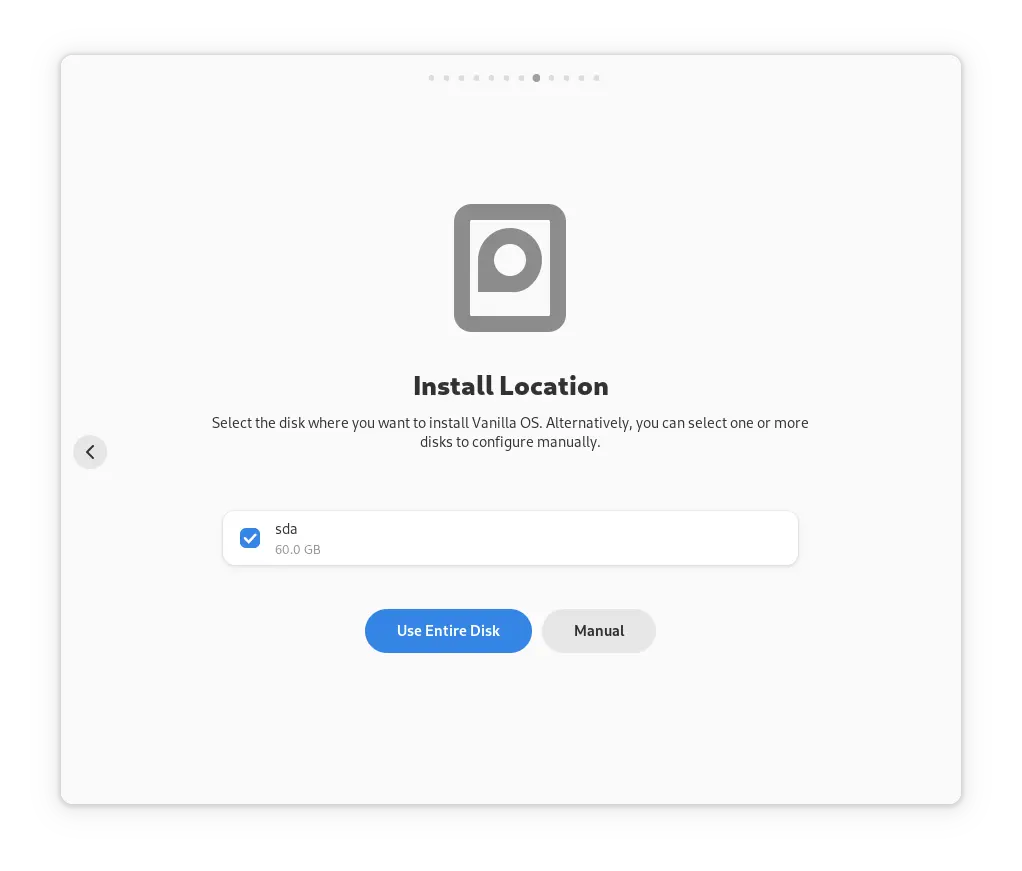
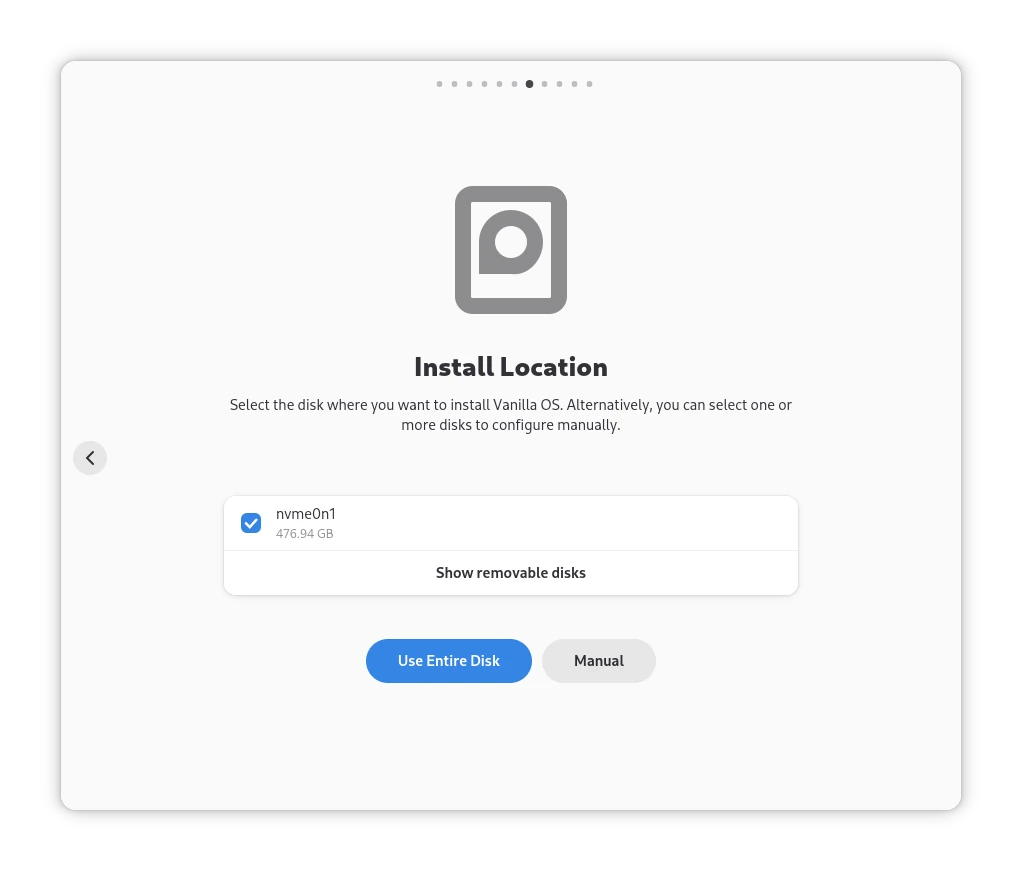
docs: update installation guide

diff --git a/articles/en/installation.md b/articles/en/installation.md
@@ -7,6 +7,7 @@ Authors:
     - GabsEdits
     - kra-mo
     - kbdharun
+    - NN708
 ---
 
 ## Preparation
@@ -14,11 +15,12 @@ Authors:
 ### Requirements
 
 - A flash drive with at least **4GB** of capacity.
-- A 64 bit (amd64)/[x64] processor.
-- A drive with at least **50GB** of storage space (required for [ABRoot](https://documentation.vanillaos.org/docs/ABRoot/) A/B partitions).
+- A 64-bit Intel, AMD (x86_64), or ARM (AArch64) processor.
+- A disk with at least **50GB** of storage space (required for ABRoot A/B partitions).
 - At least **4GB** of **RAM** (**8GB recommended**).
 - 30 minutes to an hour of your time.
-- Good to have **Secure Boot enabled** (if your device isn't with Nvidia graphics).
+
+> **Note**: If you don't need NVIDIA drivers or other custom kernel modules, it's fine to leave Secure Boot enabled. Otherwise, you should disable it (see [here](https://docs.vanillaos.org/handbook/en/nvidia-issues#drivers-installed-but-nvidia-gpu-is-not-working)).
 
 ### Creating a bootable USB stick
 
@@ -26,17 +28,17 @@ This section will guide you through creating a bootable USB stick with Vanilla O
 
 #### Downloading Vanilla OS
 
-First, download the Vanilla OS disk image that will be written to your USB flash drive from [**here**](https://vanillaos.org/download/orchid/stable).
+First, download the Vanilla OS disk image that will be written to your USB flash drive from [**here**](https://vanillaos.org/download/reunion/stable).
 
 #### Installing Etcher
 
-To flash the disk image to your USB stick, download and install [**balenaEtcher**](https://www.balena.io/etcher/).
+To flash the disk image to your USB stick, download and install [**balenaEtcher**](https://etcher.balena.io/).
 
-If you wish, you can also use different software that you are familiar with, such as [**Ventoy**](https://www.ventoy.net/) or [**Rufus**](https://rufus.ie/).
+Alternatively, you can use other tools you're familiar with, such as [**Ventoy**](https://www.ventoy.net/), [**Rufus**](https://rufus.ie/) (on Windows) or [**Impression**](https://apps.gnome.org/Impression/) (on Linux).
 
 #### Flashing the image
 
-**Warning**: this will erase **all data** on your USB flash drive. Make sure to back up all your important data before proceeding!
+**Warning**: This will erase **all data** on your USB flash drive. Make sure to back up all your important data before proceeding!
 
 Open Etcher, select the downloaded disk image and your USB flash drive, then click "Flash!".
 
@@ -50,9 +52,9 @@ Insert the USB flash drive into the computer to which you want to install Vanill
 
 If your device does not automatically boot into the Vanilla OS installation media, reboot, and while it is starting up, hold down the key to `select boot device` or for `boot menu` indicated by a prompt on the boot screen. The most common keys are F2, F10, F11, F12, Delete and Escape. If the prompt isn't present, try searching online for your specific model of device. Select Vanilla OS or the name of your USB flash drive from the boot menu.
 
-When your device has successfully booted from the USB stick, you should see a welcome screen inviting you to try or install Vanilla OS.
+When your device has successfully booted from the USB stick, you should see a welcome screen inviting you to install Vanilla OS.
 
-![Welcome](https://raw.githubusercontent.com/Vanilla-OS/handbook/main/assets/uploads/Installation/installer-welcome.webp)
+![Welcome](https://raw.githubusercontent.com/Vanilla-OS/handbook/main/assets/uploads/Installation/installation-welcome.webp)
 
 ## Installing Vanilla OS
 
@@ -68,27 +70,27 @@ The installer will detect if you have an NVIDIA GPU or if you are installing Van
 
 ![VM Tools](https://raw.githubusercontent.com/Vanilla-OS/handbook/main/assets/uploads/Installation/installation-vmtools.webp)
 
-### Dual- or multibooting
+### Installing Vanilla OS to a disk
 
-Currently, Vanilla OS does not support dual- or multibooting with other operating systems on the same drive. If you want to dual- or multiboot, you can install Vanilla OS on a separate drive.
+**Warning**: Installing Vanilla OS will **erase all data** on the selected disk. Make sure to back up all your important data before proceeding!
 
-### Installing only Vanilla OS
-
-Installing Vanilla OS will **erase all data** on the selected disk. Make sure to back up all your important data before proceeding!
-
-Select the disk you want to install Vanilla OS to, click "Use Entire Disk", then click "Confirm".
+Select the disk you want to install Vanilla OS to, click "Use Entire Disk", then click "Confirm Changes".
 
 ![Use Entire Disk](https://raw.githubusercontent.com/Vanilla-OS/handbook/main/assets/uploads/Installation/installation-partitioning.webp)
 
-You can also manually partition your disk by selecting "Manual Partitioning" and creating your own partitions.
+#### Dual- or multibooting
+
+Vanilla OS does not automatically support dual- or multibooting with other operating systems on the same disk. However, you can install Vanilla OS on a separate disk. If you still want to dual- or multiboot on the same disk, use manual partitioning (see below).
 
 #### Manual partitioning
 
-/* WIP */
+If you know what you are doing, you can also partition your disk manually by selecting "Manual" and creating your own partitions. For more details on partitioning, refer to [this blog post](https://vanillaos.org/blog/article/2023-11-22/vanilla-os-orchid---devlog-22-nov).
+
+![Manual Partitioning](https://raw.githubusercontent.com/Vanilla-OS/handbook/main/assets/uploads/Installation/installation-manual-partitioning.webp)
 
 ### Device encryption
 
-You can choose to encrypt your device by clicking the "Encrypt Device". Make sure to add a strong password that you will remember, as you will need it to unlock your device every time you boot it up.
+You can choose to encrypt your disk by clicking the "Encrypt Device". Make sure to add a strong password that you will remember, as you will need it to unlock your device every time you boot it up.
 
 ![Encrypt Device](https://raw.githubusercontent.com/Vanilla-OS/handbook/main/assets/uploads/Installation/installation-encryption.webp)
 
@@ -101,6 +103,8 @@ The installation process will take a few minutes to complete. Once it is done, y
 ## Booting into Vanilla OS
 
 After the installer finishes, all you need to do is reboot and remove the USB stick. Vanilla OS will be waiting for you.
+
+If you have multiple disks and the system doesn't boot Vanilla OS, adjust the boot settings in a way similar to [Booting from the USB flash drive](https://docs.vanillaos.org/handbook/en/installation#booting-from-the-usb-flash-drive) above.
 
 ## First Setup
 
